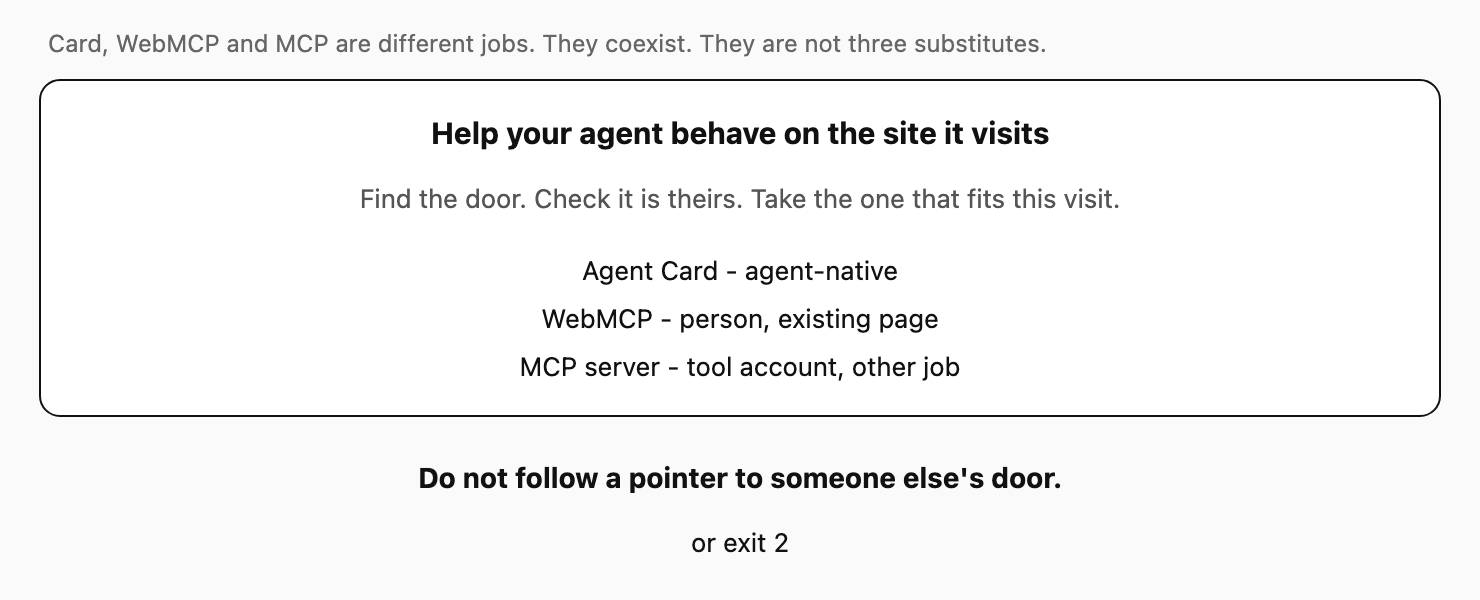
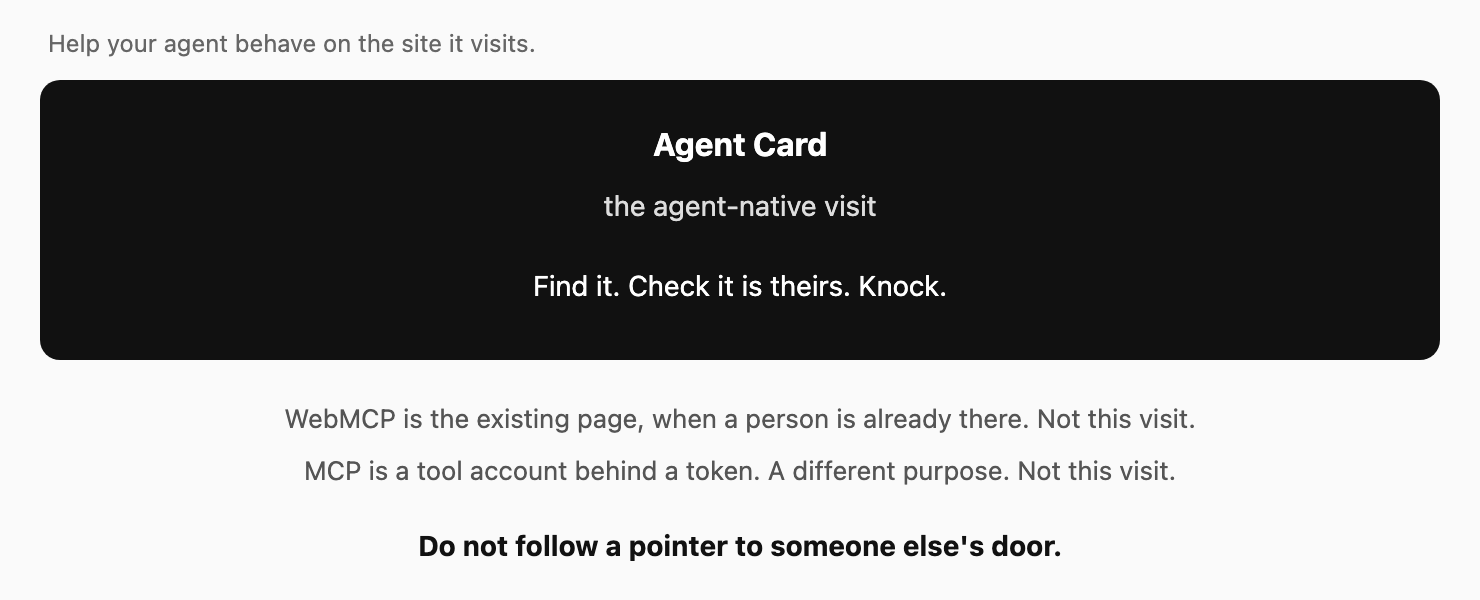
docs: the agent-native visit is the Agent Card, not a three-way menu
WebMCP and MCP were still in the same list, so they still looked like
the same kind of door. The figure is the card. The other two are named
only to say they are not that visit.

diff --git a/README.md b/README.md
@@ -21,50 +21,35 @@ It does not follow a pointer to someone else's door.
 
 ## What this is
 
-A site may have published an Agent Card (any A2A door, not one vendor), an MCP
-server, or WebMCP tools in the page. Those are different jobs, often named
-together. This package reads what is there, checks it belongs to the origin you
-dialled, and takes the one that fits what you hold — a key, a token, a person
-in the tab, a browser. If there is nothing to take, it says why and exits 2.
+The agent-native visit is the **Agent Card** (any A2A door, not one vendor).
+This package finds that card, checks it belongs to the origin you dialled, and
+knocks: one signed POST, a signed reply. If there is no card to take, it says
+why and exits 2.
 
 Opening the page first is how an agent follows a rewritten address — carrying
-*your* signed identity — to someone else's door. If nobody is in the tab and
-the site prepared a card or an MCP server, take that. Do not scrape the page
-just because WebMCP exists.
+*your* signed identity — to someone else's door.
+
+WebMCP is not that visit. It is tools on the existing page, for a person already
+in the tab. MCP is not that visit either. It is a tool account behind a token —
+a different purpose. The probe will mention both when they are there. It does
+not treat them as another Agent Card.
 
 | | |
 |---|---|
-| **Who installs this** | People whose *agent* visits sites it did not build — harness authors, IDE agents, a crawler that should knock instead of scrape. |
-| **Not for** | Website owners putting up a door or putting tools in the page. This package does not run on the site. |
+| **Who installs this** | People whose *agent* visits sites it did not build — harness authors, IDE agents. |
+| **Not for** | Website owners putting up a door. This package does not run on the site. |
 | **The problem** | Opening the page first can take the agent's signed identity to someone else's door. |
 
-Card, WebMCP and MCP are different jobs a site may have published. They
-coexist. They are not three substitutes. This package takes the one that
-fits the visit:
-
-![Help your agent behave on the site it visits.](diagrams/behave.png)
-
-| published | job | you need | what remains |
-|---|---|---|---|
-| **card** — the Agent Card and the A2A door it names | an agent-native visit | the agent's own key, a `did:key` | a counterparty the site can reach again |
-| **page** — WebMCP tools in the page | the existing page | a person in the tab | nothing; it closes with the tab |
-| **mcp** — an MCP server the site declares | a tool account | a token | an account on that server |
-
-Which published job to take depends on **what the visit is**, and that is the
-decision this tool makes:
-
-- **a person is in the tab** → WebMCP (the page). It is theirs; its tools run in their session.
-- **the agent is alone** → the Agent Card first (its key is all it needs), the MCP server if
-  it holds a token. WebMCP only if it carries a browser of its own — and robots.txt may
-  still refuse a headless visit to the page.
+![The agent-native visit is the Agent Card.](diagrams/behave.png)
 
 The router does four things and nothing else: **probe** an origin (GET only — it never runs
-page script, never opens a browser), **route** by what is on hand, **check a handoff** — a tool
+page script, never opens a browser), **route** (the card when the visit is the agent's;
+the page only when a person is already there), **check a handoff** — a tool
 result that says "the rest of this happens at the card / on this page / on this server" —
 against the site's own card, and **knock**: POST one signed A2A `message/send` at the URL the
 card names, with a key the agent already holds, and verify the signed reply. It does not
-browse, scrape, or mint keys: when the page is the way in, it hands the page to the browser
-your harness already has.
+browse, scrape, or mint keys: when a person is already on the page, it hands the page to the
+browser your harness already has.
 
 Zero dependencies. Node ≥ 20. MIT. Status: **0.5.0** — `npm i @muretai/agent-web-router`, or run it directly: `npx @muretai/agent-web-router probe <url>`.
 

diff --git a/SKILL.md b/SKILL.md
@@ -1,22 +1,24 @@
 ---
 name: agent-web-router
-description: Behave on a website the way that site asked — do not scrape the page. Find the Agent Card (any A2A door), a declared MCP server, or WebMCP tools in the page. MCP and WebMCP are different. If no person is in the tab and the site published a Card or MCP, take that. Check it is really the site's. Follow a handoff only where the card points. Not tied to one vendor's door.
+description: Behave on a website as an agent — find the Agent Card (any A2A door), check it is really the site's, and knock. WebMCP is the existing page when a person is already there, not that visit. MCP is a tool account, a different purpose. Follow a handoff only where the card points. Not tied to one vendor's door.
 ---
 
 # Agent Web Router — the skill
 
-You are about to visit a website as an agent. Do not start by scraping the page.
-A site may have published an Agent Card, an MCP server, or WebMCP — different
-jobs, not three substitutes. Which published job you take is decided by two
-things: **what the visit is**, and **what the site says it prefers**. This skill
-finds and checks those; the browser you already have and the key you already
-hold do the visiting.
+You are about to visit a website as an agent. The agent-native visit is the
+Agent Card. Find it, check it is theirs, knock. The browser you already have
+and the key you already hold do the visiting.
 
-| way | what it is | you need |
+WebMCP is not that visit: tools on the existing page, when a person is already
+there. MCP is not that visit: a tool account behind a token, a different
+purpose. The command line will mention them when they are there. Do not treat
+either as another Agent Card.
+
+| | what it is | you need |
 |---|---|---|
-| **page** | WebMCP tools in the page (`<form toolname=…>` or `document.modelContext`) | a browser — yours, or the person's |
-| **mcp** | an MCP server the site declares at `/.well-known/mcp.json` | a token for it |
 | **card** | the Agent Card at `/.well-known/agent-card.json` and the door it names: POST one signed message, get a signed reply | your own Ed25519 key — nothing else |
+| **page** | WebMCP — not the agent-native visit; the existing page | a person already in the tab |
+| **mcp** | MCP — not the agent-native visit; a tool account | a token for that server |
 
 ## With the command line (preferred)
 
